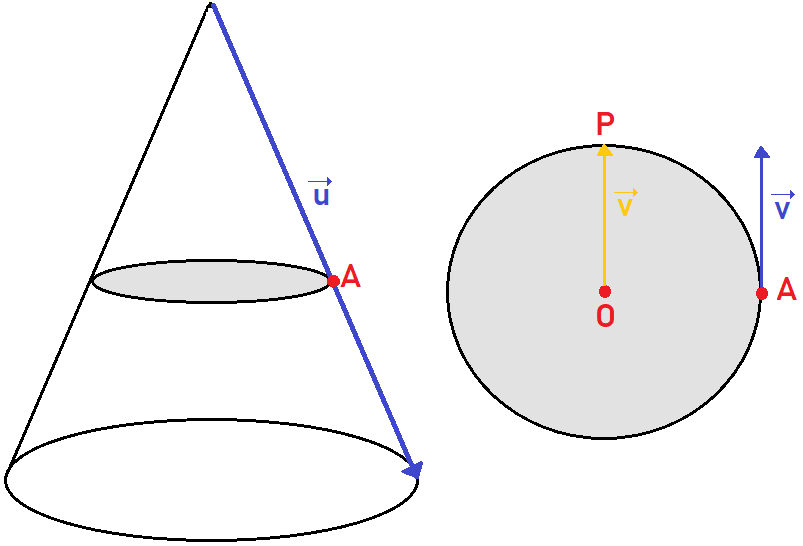
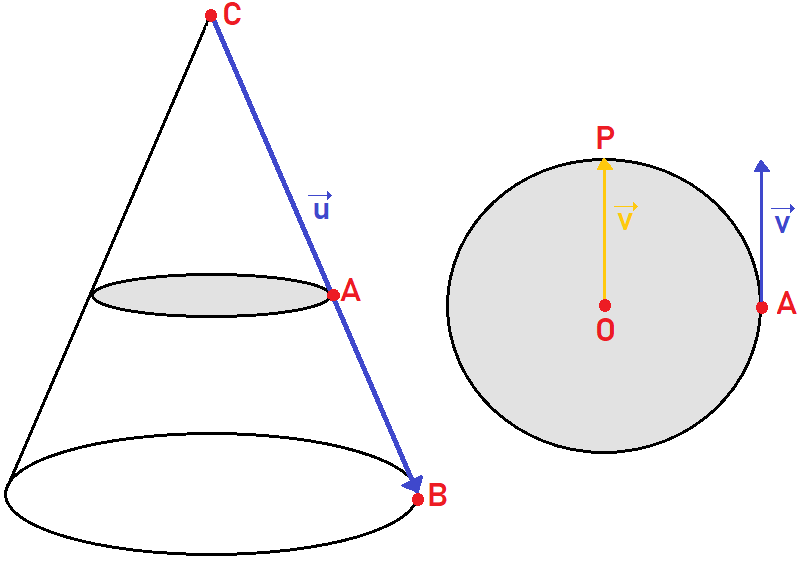
Minor fix on report

diff --git a/tex/relatorio.tex b/tex/relatorio.tex
@@ -351,7 +351,7 @@ Já no que diz respeito às faces laterais do cone, os valores das normais do po
     \includegraphics[height=7cm]{normal_cone.png} 
 \end{figure}
 
-Desta forma para calcular o vetor normal do ponto \texttt{A} tem que se ter em conta que o vetor $\overrightarrow{u}$ é o vetor que liga o vértice máximo do cone ao ponto em causa 
+Desta forma para calcular o vetor normal do ponto \texttt{A} tem que se ter em conta que o vetor $\overrightarrow{u}$ é o vetor que liga o ponto C ao ponto B do cone, sendo que $\overrightarrow{u}$ = B - C = (x, 0, z) - (0, y, 0) = (x, -y, z).
 
 \begin{verbatim}
 vector[0]=radius*sin(pAngle+angle);
@@ -359,7 +359,7 @@ vector[1]=-height;
 vector[2]=radius*cos(pAngle+angle);
 \end{verbatim}
 
-, para além do vetor $\overrightarrow{v}$, que pode basicamente ser calculado pelos valores das coordenadas x e y do ponto \texttt{P}, já que vetor $\overrightarrow{v}$ = P - O = (x, y, z) - (0, y, 0) = (x, 0, z).\\
+, para além do vetor $\overrightarrow{v}$, que pode basicamente ser calculado pelos valores das coordenadas x e y do ponto \texttt{P}, já que $\overrightarrow{v}$ = P - O = (x, y, z) - (0, y, 0) = (x, 0, z).\\
 
 \begin{verbatim}
 vector2[0]=pRadius*sin(pAngle+angle+M_PI/2);
